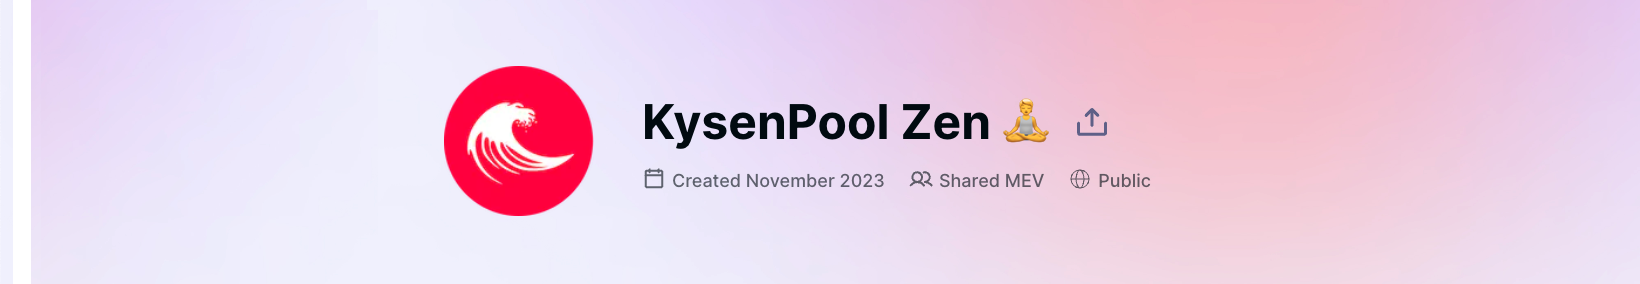
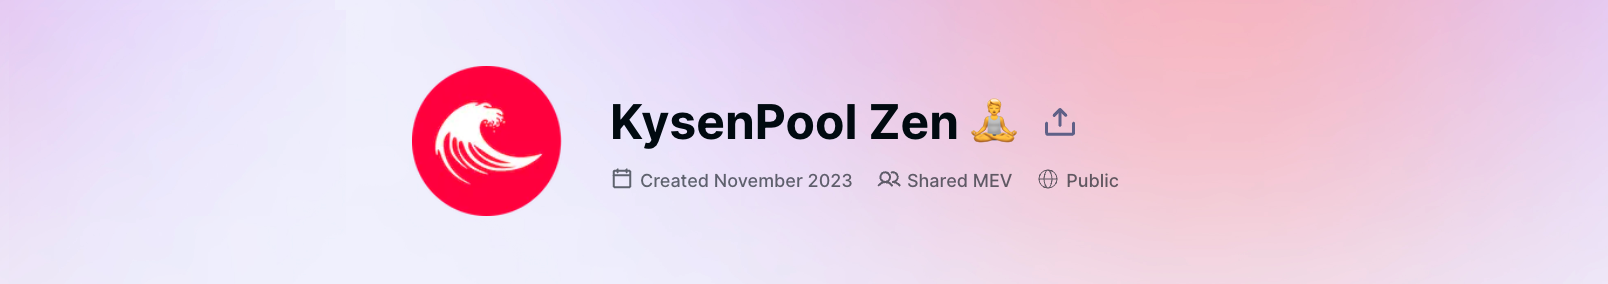
GITBOOK-44: No subject

Changed region(s): [[0.2488, 0.2254, 0.7152, 0.7606], [0.0, 0.0, 0.0311, 0.9859]]

diff --git a/README.md b/README.md
@@ -1,7 +1,7 @@
 ---
 description: KysenPool — Unlock the Power of Staking
 cover: .gitbook/assets/photo_2023-12-10_01-39-05.jpg
-coverY: 91
+coverY: 106.97058823529412
 ---
 
 # Web3 Guidebooks
